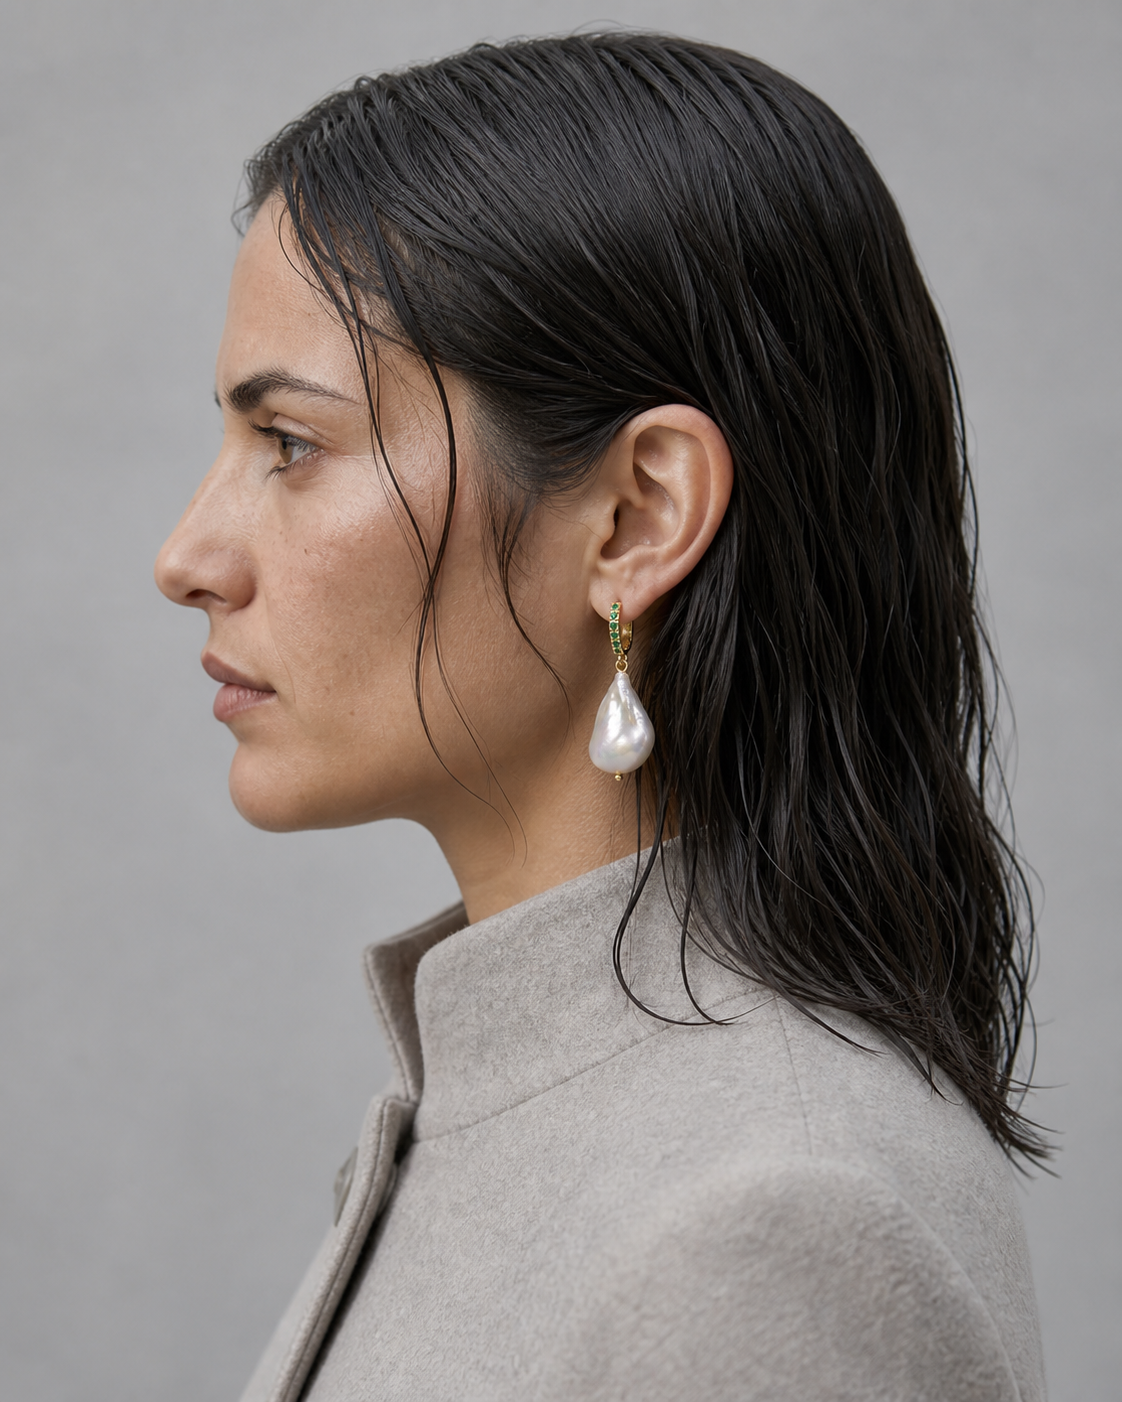
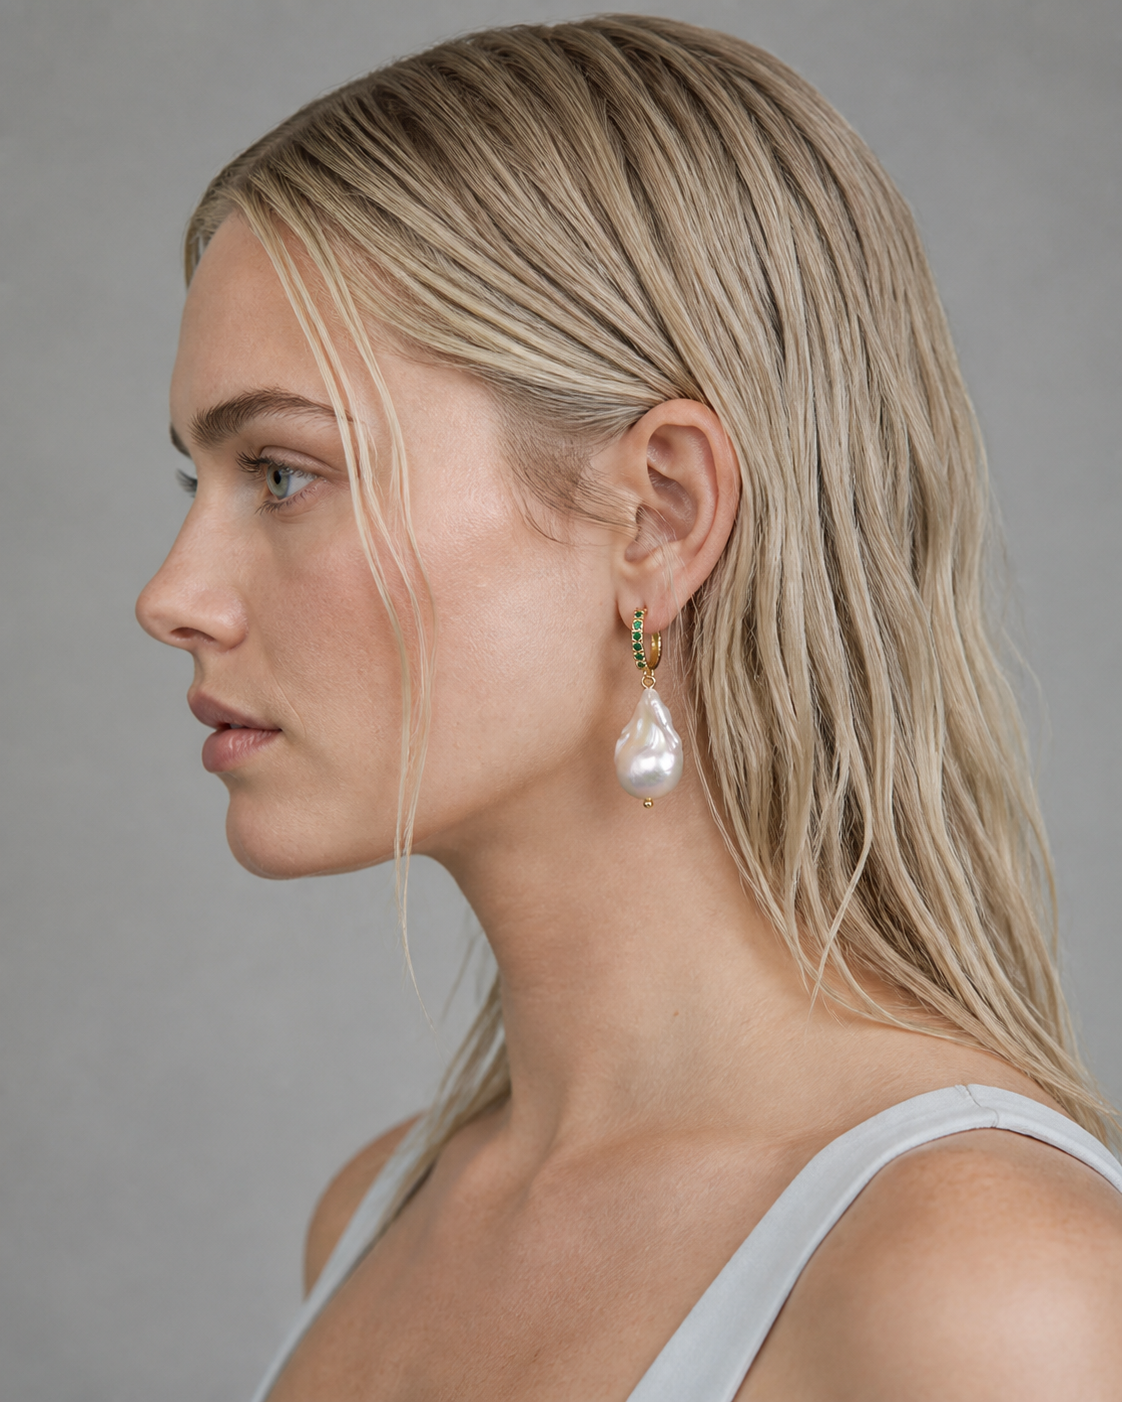
assets: rework Sea Above protagonist anchors

diff --git a/video-pipeline/asset-library/05-characters/CHAR_MR_TIDE_ARCHIVIST_001/README.md b/video-pipeline/asset-library/05-characters/CHAR_MR_TIDE_ARCHIVIST_001/README.md
@@ -1,22 +1,23 @@
 # CHAR_MR_TIDE_ARCHIVIST_001 — Protagonist Identity Anchors
 
-This folder is the photorealistic continuity anchor for the fictional adult protagonist of Maverenne “The Sea Above / FILE 001”. The source images are reference boards for image/video generation, not a 3D model or rig.
+This folder is the current photorealistic continuity anchor for the unequivocally adult fictional protagonist of Maverenne “The Sea Above / FILE 001”. The source images are reference boards for image/video generation, not a 3D model or rig. The wardrobe contract is the cool/light coordinated outfit described below.
 
 ## Accepted files
 
 | File | Role |
 | --- | --- |
-| `source/character-turnaround.png` | Same adult woman in front, both profiles, and rear three-quarter views. |
+| `source/character-turnaround.png` | Same adult woman, age 23, in front, both profiles, and rear three-quarter views. |
 | `source/expression-sheet.png` | Four restrained expressions: neutral observation, delayed recognition, contained fear, upward resolve. |
 | `source/earring-profile.png` | Right-side profile with exactly one Baroque Orbit earring on the anatomical right ear. |
 
 ## Identity invariants
 
-- One fictional adult woman, age 29 (within the 25–35 contract); the same oval face, slightly strong jaw, medium olive-neutral skin, subtle freckles/pores, deep-set hazel-brown eyes, straight medium-width nose, and softly defined closed lips.
-- Shoulder-length dark brown/near-black hair, center part, damp strands at both temples, loose rain-wet ends at the collar. This wet-hair pattern is part of the identity lock.
-- Ivory-grey structured wool coat with a standing collar and simple matte buttons. The coat cut, collar, and neutral grey daylight remain unchanged across the sheets.
-- Natural human anatomy: real skin and ears, believable pierced lobe, natural hands and body proportions; restrained makeup; no beauty retouching, glamour pose, or smile.
-- Turnaround and expression sheets have no jewelry. The wearing profile has exactly one earring, on the visible anatomical right ear; no necklace, glasses, rings, bracelet, or second earring.
+- One unequivocally adult woman, exact age 23: youthful striking beauty with an adult oval face, high cheekbones, clear jawline, vivid blue-green eyes, straight elegant nose, softly full closed lips, fair natural skin with visible pores and faint freckles.
+- Cool pale champagne/ash-blonde shoulder-length hair, visibly wet from rain, strict center part, damp strands at both temples, loose wet ends around the shoulders. This wet center-part pattern is part of the identity lock.
+- Tall-looking slim athletic-hourglass feminine proportions, long legs, long neck, naturally toned shoulders and arms, defined waist, and relaxed adult posture.
+- Cool/light coordinated premium British fantasy-editorial outfit: fully opaque fitted dove-ice camisole top with broad straps and a modest straight neckline, structured high-waisted pale slate-blue short skirt ending above the knee, bare arms and bare legs. No outer layer, sheer material, lingerie styling, or nudity.
+- Natural human anatomy: real skin, ears, hands, feet, and body proportions; restrained makeup; no beauty retouching, influencer gloss, provocative pose, or smile.
+- Turnaround and expression sheets have no jewelry. The wearing profile has exactly one earring on the visible anatomical right ear; no necklace, glasses, rings, bracelet, or second earring.
 
 ## Product lock for the wearing profile
 
@@ -24,5 +25,5 @@ The earring is constrained by `PROD_MR_BAROQUE_ORBIT_EARRINGS_001/views/product-
 
 ## QA acceptance
 
-All three images were inspected with the local image viewer. The turnaround has four consistent views, readable ears and natural hands, and no jewelry. The expression sheet keeps one face, coat, wet-hair pattern, and closed mouth while differentiating the four requested restrained expressions. The wearing profile shows one readable right-ear earring with the five product locks, with no added jewelry or background props. No identity drift, plastic skin, duplicated fingers, malformed ears, smiling, or glamour posing was accepted.
+All three images were inspected with the local image viewer. The turnaround has four consistent views, readable ears and natural hands, and no jewelry. The expression sheet keeps one adult face, outfit, wet-hair pattern, and closed mouth while differentiating the four requested restrained expressions. The wearing profile shows one readable right-ear earring with the five product locks, with no added jewelry or background props. No age drift, dark-hair drift, plastic skin, duplicated fingers, malformed ears, smiling, or influencer/glamour posing was accepted.
 

diff --git a/video-pipeline/asset-library/05-characters/CHAR_MR_TIDE_MEMORY_PAIR_001/README.md b/video-pipeline/asset-library/05-characters/CHAR_MR_TIDE_MEMORY_PAIR_001/README.md
@@ -10,13 +10,13 @@ This folder contains the safe, photorealistic childhood-memory pair for Maverenn
 
 ## Continuity and safety invariants
 
-- The adult is the same fictional 29-year-old protagonist: dark shoulder-length center-parted rain-wet hair, ivory-grey standing-collar structured coat, natural skin, restrained closed-mouth expression, and natural anatomy.
-- The adult's visible anatomical right ear carries exactly one Baroque Orbit earring: closed polished gold hoop, front green-stone row, one connector ring, irregular white baroque pearl, and terminal gold bead. No other jewelry is present.
-- The child is approximately eight years old, fully clothed in a muted mustard hooded raincoat, dark trousers, and rain boots. The child remains mostly rear/three-quarter and non-identifiable; no exposed or vulnerable framing.
+- The adult is the same unequivocally adult age-23 protagonist: cool pale champagne/ash-blonde shoulder-length wet hair with strict center part, vivid blue-green eyes, fair natural skin with pores and faint freckles, and refined youthful-adult facial structure.
+- The adult wears the same cool/light coordinated premium British fantasy-editorial outfit: opaque dove-ice fitted camisole with broad straps and modest neckline, structured high-waisted pale slate-blue short skirt above the knee, bare arms and bare legs, and understated pale cool-grey flats. No outer layer, sheer material, lingerie styling, or nudity.
+- The adult’s visible anatomical right ear carries exactly one Baroque Orbit earring: closed polished gold hoop, front green-stone row, one connector ring, irregular white baroque pearl, and terminal gold bead. No other jewelry is present.
+- The child is approximately eight years old, fully clothed in a muted ice-blue waterproof hooded shell, dark trousers, and rain boots. The child remains mostly rear/three-quarter and non-identifiable; no exposed or vulnerable framing.
 - The joined hands are distinct, naturally proportioned, and safe. The scene depicts walking together on wet limestone/brick paving; there is no danger, injury, panic, traffic, weapon, drowning, or sensational framing.
-- Adult and child identities remain visually distinct with no face blending. No readable signage, brands, text, watermark, or extra props are part of the lock.
+- Adult and child identities remain visually distinct with no face blending. No readable signage, brands, text, watermark, or unrelated prop is part of the lock.
 
 ## QA acceptance
 
-The image was inspected with the local image viewer. It passes the rear/three-quarter child framing, full clothing, safe hand-holding, distinct adult/child anatomy, same-street setting, adult coat/hair continuity, and single right-ear earring checks. No child face close-up, danger, child/adult face merge, duplicated fingers, malformed hands, extra jewelry, smile, or product redesign was accepted.
-
+The generated source and repaired source were inspected with the local image viewer. The accepted repair adds only understated pale flats to the adult while preserving the adult identity, outfit, earring, joined hands, child framing, and street. It passes the rear/three-quarter child framing, full clothing, safe hand-holding, distinct adult/child anatomy, same-street setting, adult blonde continuity, and single right-ear earring checks. No child face close-up, danger, injury, face blending, duplicated fingers, malformed hands, extra jewelry, smile, or product redesign was accepted.
